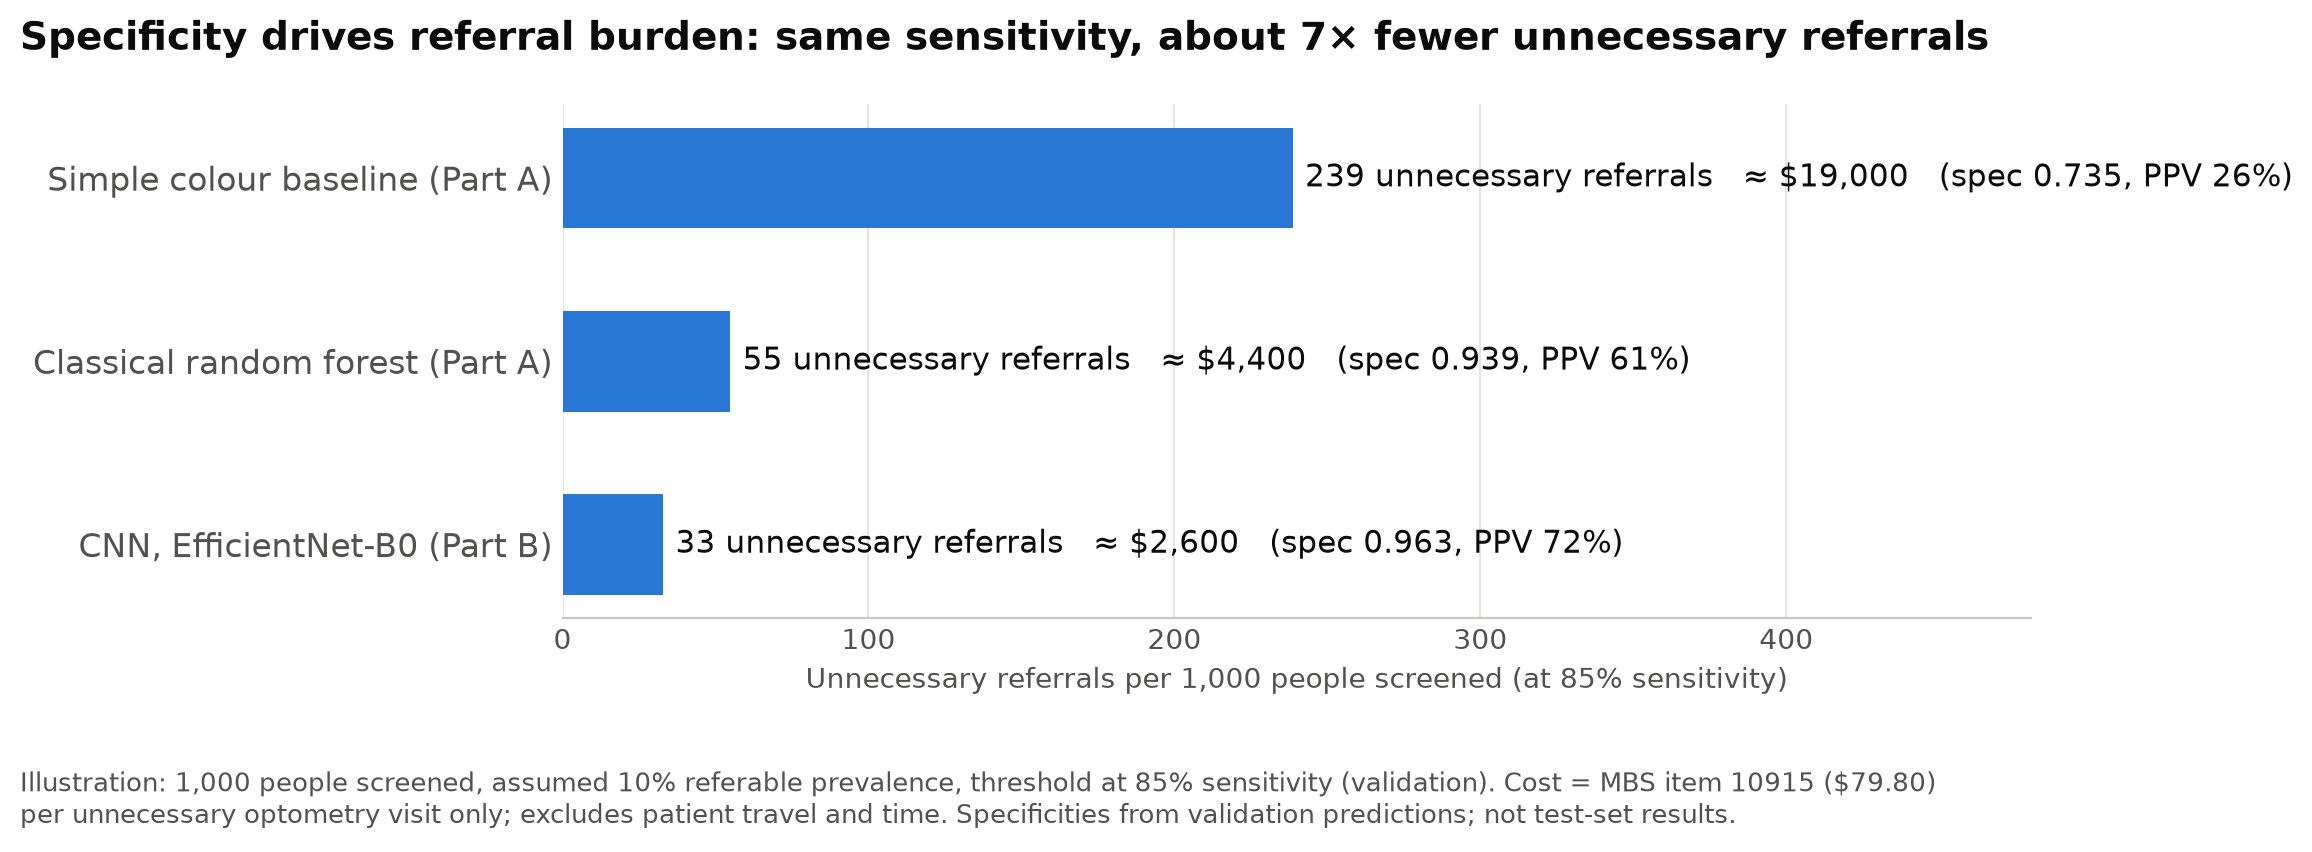
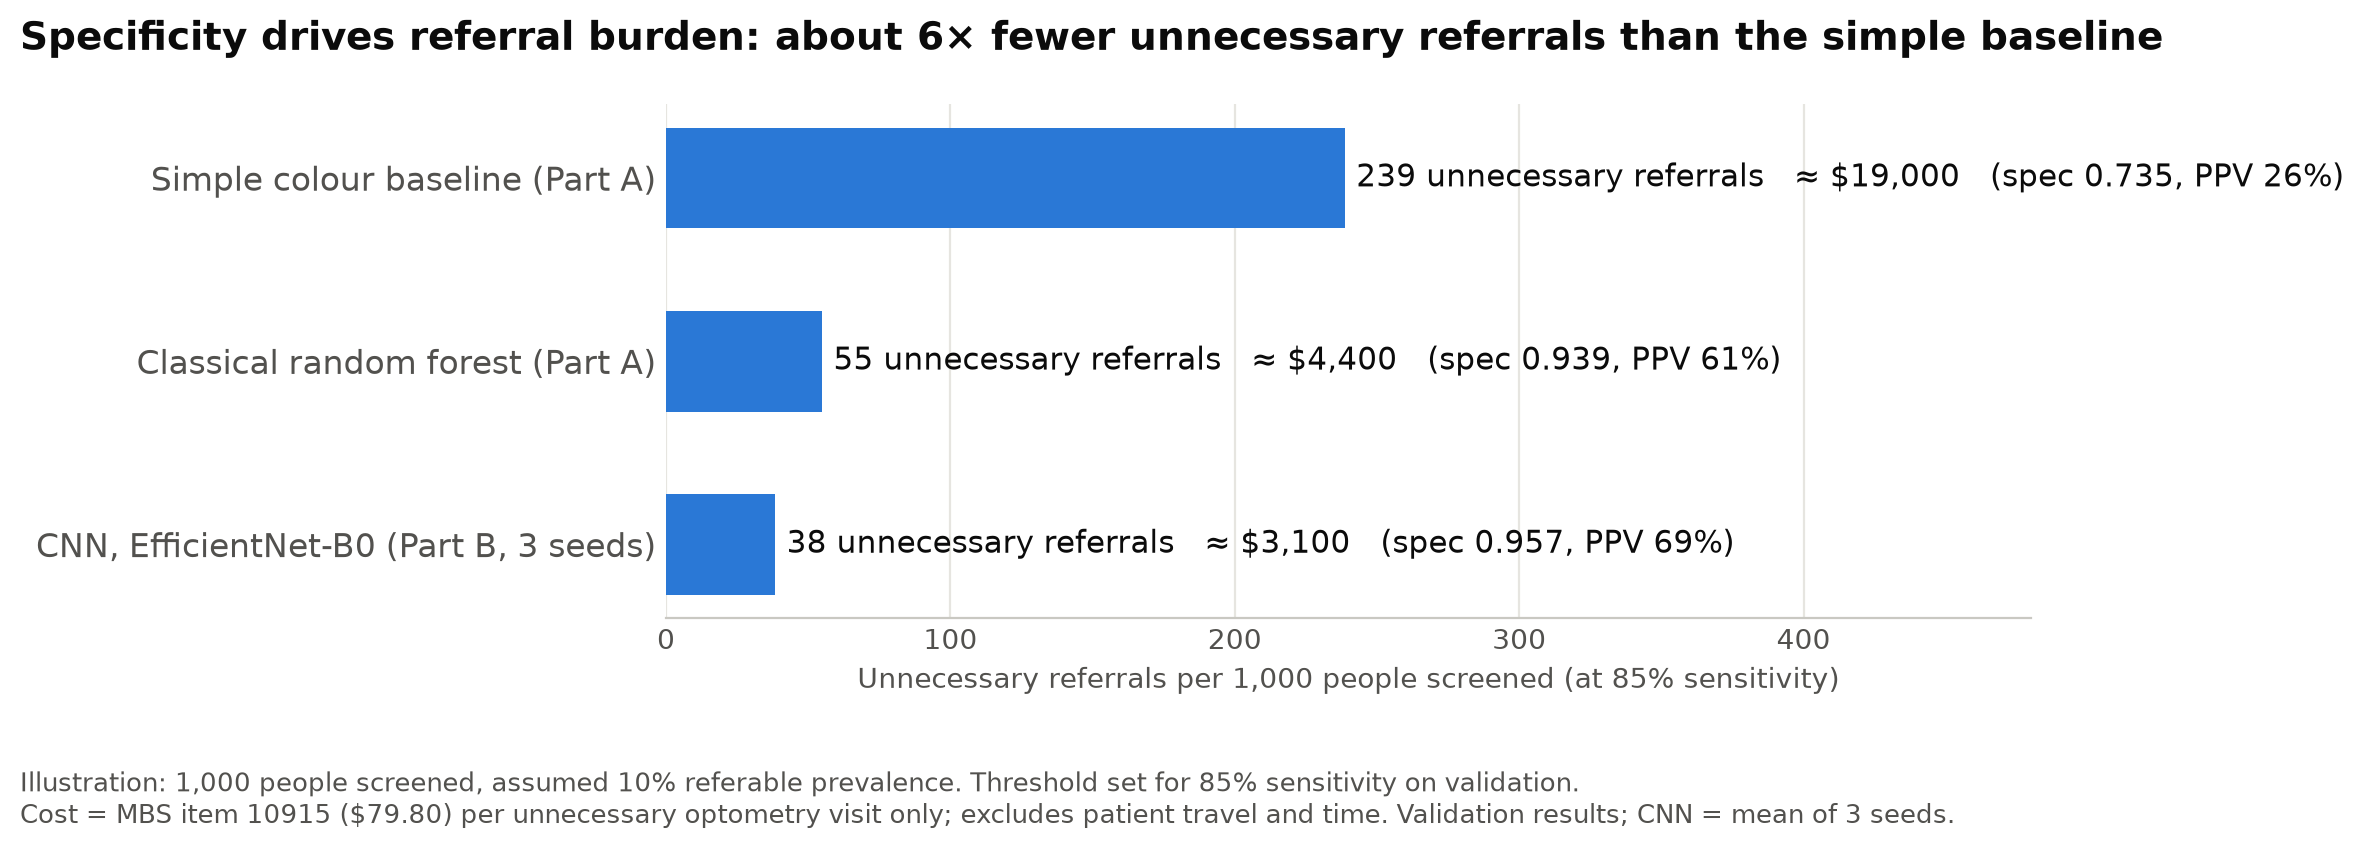
Part C: referral-burden figure on test set (D's official run), 3-seed CNN
- plot_clinical.py: --split test applies each model's validation threshold
  (85% sensitivity) unchanged to test; CNN = mean of B's 3 fine-tuned seeds.
- Test numbers match D's per1000_at_10pct_prevalence.csv: unnecessary
  referrals per 1,000 = 183 baseline, 36 classical RF, 24 CNN.
- Clinical doc updated with test numbers; CNN and classical pipeline
  described as performing similarly (D's paired bootstrap).

diff --git a/scripts/plot_clinical.py b/scripts/plot_clinical.py
@@ -6,12 +6,16 @@
 Referral burden is an illustration, not an economic evaluation:
 1,000 people screened, assumed 10% referable prevalence, threshold set at 85%
 sensitivity on validation, each unnecessary referral costed at MBS item 10915
-($79.80). Specificities come from the validation predictions.
+($79.80). With --split test, the validation threshold is applied unchanged to
+the test predictions (the group's rule; nothing is chosen on test). For models
+with several seeds, sensitivity and specificity are averaged over seeds.
 
 Usage:
-    python scripts/plot_clinical.py
+    python scripts/plot_clinical.py               # validation numbers
+    python scripts/plot_clinical.py --split test  # final test numbers (frozen models only)
 """
 
+import argparse
 import io
 import subprocess
 import sys
@@ -26,7 +30,7 @@ from matplotlib.patches import FancyArrowPatch, FancyBboxPatch
 
 ROOT = Path(__file__).resolve().parent.parent
 sys.path.insert(0, str(ROOT))
-from src.metrics import evaluate, load_preds  # noqa: E402
+from src.metrics import TARGET_SENS, load_preds, threshold_for_sensitivity  # noqa: E402
 
 OUT = ROOT / "results/part_c/figures"
 BLUE, BLUE_LIGHT, GREY, INK, INK2, SURFACE = "#2a78d6", "#e3eefb", "#8a8984", "#0b0b0b", "#52514e", "#ffffff"
@@ -82,63 +86,84 @@ def workflow():
     fig.savefig(OUT / "workflow.png", dpi=200, bbox_inches="tight", facecolor=SURFACE)
 
 
-B_MAIN = ROOT / "results/part_b/preds_B_efficientnet_b0_finetune.csv"
+B_MAIN = [ROOT / f"results/part_b/preds_B_efficientnet_b0_finetune_s{s}.csv" for s in (1, 2, 3)]
 
 
-def read_preds(path):
-    """Path to a prediction CSV, or (before Part B is merged) its contents from the Part_B_CNN branch."""
+def read_text(path):
+    """A prediction CSV's text, or (before Part B is merged) its contents from the Part_B_CNN branch."""
     if path.exists():
-        return path
+        return path.read_text()
     rel = path.relative_to(ROOT).as_posix()
-    text = subprocess.run(["git", "show", f"origin/Part_B_CNN:{rel}"], cwd=ROOT, check=True,
+    return subprocess.run(["git", "show", f"origin/Part_B_CNN:{rel}"], cwd=ROOT, check=True,
                           capture_output=True, text=True).stdout
-    return io.StringIO(text)
 
 
-def referral_burden():
+def operating_point(paths, split):
+    """Mean sensitivity and specificity on `split` at each file's validation threshold for 85% sensitivity."""
+    sens, spec = [], []
+    for path in paths:
+        text = read_text(path)
+        val = load_preds(io.StringIO(text), "val")
+        t = threshold_for_sensitivity(val["referable"].to_numpy(), val["model_score"].to_numpy(), TARGET_SENS)
+        d = load_preds(io.StringIO(text), split)
+        y, pos = d["referable"].to_numpy() == 1, d["model_score"].to_numpy() >= t
+        sens.append((pos & y).sum() / y.sum())
+        spec.append((~pos & ~y).sum() / (~y).sum())
+    return sum(sens) / len(sens), sum(spec) / len(spec)
+
+
+def referral_burden(split):
     models = [
-        ("Simple colour baseline (Part A)", ROOT / "results/part_a/preds_baseline_colour_logreg.csv"),
-        ("Classical random forest (Part A)", ROOT / "results/part_a/preds_A_rf_all.csv"),
-        ("CNN, EfficientNet-B0 (Part B)", B_MAIN),
+        ("Simple colour baseline (Part A)", [ROOT / "results/part_a/preds_baseline_colour_logreg.csv"]),
+        ("Classical random forest (Part A)", [ROOT / "results/part_a/preds_A_rf_all.csv"]),
+        ("CNN, EfficientNet-B0 (Part B, 3 seeds)", B_MAIN),
     ]
     rows = []
-    for name, path in models:
-        spec = evaluate(load_preds(read_preds(path)), n_boot=0)["spec_at_sens85"]
+    for name, paths in models:
+        sens, spec = operating_point(paths, split)
         fp = N * (1 - PREVALENCE) * (1 - spec)
-        tp = N * PREVALENCE * SENS
-        rows.append({"model": name, "spec": spec, "fp": fp, "ppv": tp / (tp + fp), "cost": fp * FP_COST})
+        tp = N * PREVALENCE * sens
+        rows.append({"model": name, "sens": sens, "spec": spec, "fp": fp, "ppv": tp / (tp + fp), "cost": fp * FP_COST})
     df = pd.DataFrame(rows)
+
+    def extra(r):
+        return f"sens {r.sens:.2f}, " if split == "test" else ""
 
     fig, ax = plt.subplots(figsize=(11, 3.6), facecolor=SURFACE)
     y = range(len(df))[::-1]
     ax.barh(list(y), df["fp"], height=0.55, color=BLUE)
     for yi, r in zip(y, df.itertuples()):
-        ax.text(r.fp + 4, yi, f"{r.fp:.0f} unnecessary referrals   ≈ ${round(r.cost, -2):,.0f}   (spec {r.spec:.3f}, PPV {r.ppv:.0%})",
+        ax.text(r.fp + 4, yi, f"{r.fp:.0f} unnecessary referrals   ≈ ${round(r.cost, -2):,.0f}   ({extra(r)}spec {r.spec:.3f}, PPV {r.ppv:.0%})",
                 va="center", fontsize=11, color=INK)
     ax.set_yticks(list(y), df["model"], fontsize=12, color=INK)
     ax.set_xlim(0, 480)
-    ax.set_xlabel("Unnecessary referrals per 1,000 people screened (at 85% sensitivity)", color=INK2)
+    ax.set_xlabel("Unnecessary referrals per 1,000 people screened " + ("(threshold from validation)" if split == "test" else "(at 85% sensitivity)"), color=INK2)
     for s in ("top", "right", "left"):
         ax.spines[s].set_visible(False)
     ax.spines["bottom"].set_color(BOX_EDGE)
     ax.tick_params(colors=INK2, length=0)
     ax.grid(axis="x", color="#e6e5e0")
     ax.set_axisbelow(True)
-    fig.suptitle("Specificity drives referral burden: same sensitivity, about 7× fewer unnecessary referrals",
+    ratio = df["fp"].iloc[0] / df["fp"].iloc[-1]
+    fig.suptitle(f"Specificity drives referral burden: about {ratio:.0f}× fewer unnecessary referrals than the simple baseline",
                  x=0.015, ha="left", fontsize=14, fontweight="bold", color=INK)
     fig.text(0.015, -0.06,
-             "Illustration: 1,000 people screened, assumed 10% referable prevalence, threshold at 85% sensitivity "
-             "(validation). Cost = MBS item 10915 ($79.80)\nper unnecessary optometry visit only; excludes patient "
-             "travel and time. Specificities from validation predictions; not test-set results.",
+             "Illustration: 1,000 people screened, assumed 10% referable prevalence. Threshold set for 85% sensitivity on "
+             f"validation{' and applied unchanged to test' if split == 'test' else ''}.\nCost = MBS item 10915 ($79.80) "
+             "per unnecessary optometry visit only; excludes patient travel and time. "
+             f"{'TEST-set results' if split == 'test' else 'Validation results'}; CNN = mean of 3 seeds.",
              fontsize=9.5, color=INK2, va="top")
     fig.tight_layout()
-    fig.savefig(OUT / "referral_burden.png", dpi=200, bbox_inches="tight", facecolor=SURFACE)
+    fig.savefig(OUT / f"referral_burden{'_test' if split == 'test' else ''}.png", dpi=200, bbox_inches="tight", facecolor=SURFACE)
     print(df.round(3).to_string(index=False))
 
 
 if __name__ == "__main__":
     OUT.mkdir(parents=True, exist_ok=True)
     plt.rcParams.update({"font.family": "DejaVu Sans"})
+    p = argparse.ArgumentParser()
+    p.add_argument("--split", choices=["val", "test"], default="val")
+    a = p.parse_args()
     workflow()
-    referral_burden()
+    referral_burden(a.split)
     print(f"Wrote figures to {OUT}")

diff --git a/docs/clinical_medical_value.md b/docs/clinical_medical_value.md
@@ -11,7 +11,7 @@ Facts checked against the sources listed at the end (November 2026). Claims foun
 - **The problem is missed screening, not missing technology.** About 1.3 million Australian adults have diabetes [1]. In the National Eye Health Survey, about 1 in 4 non-Indigenous and about 1 in 2 Indigenous people with diabetes were not examined within the recommended interval. Most did not know they needed an exam [3].
 - **Intended value:** a referable-DR check at the GP or Aboriginal Medical Service visit the patient is already attending. A negative result means routine rescreening. A positive or ungradable result means referral to an optometrist or ophthalmologist.
 - **Value depends on the pathway after the AI.** In an Australian real-world AI screening study, only about a third of referred patients were confirmed to attend [7]. Without a referral pathway, a true positive does not help the patient.
-- **Specificity drives cost.** Each false positive is an unnecessary specialist visit. In our validation results, specificity at 85% sensitivity ranges from 0.74 (simple colour baseline) to 0.94 (Part A's random forest) and 0.96 (B's fine-tuned CNN). For 1,000 people screened, that is the difference between about 240 and about 33–55 unnecessary referrals (illustration in section 5).
+- **Specificity drives cost.** Each false positive is an unnecessary specialist visit. On the test set (threshold set for 85% sensitivity on validation), specificity is 0.80 for the simple colour baseline, 0.96 for Part A's random forest and 0.97 for B's fine-tuned CNN. For 1,000 people screened, that is the difference between about 183 and about 24–36 unnecessary referrals (illustration in section 5). The CNN and the classical pipeline perform similarly (D's paired bootstrap: AUROC difference +0.005, 95% CI −0.003 to +0.014).
 - **Published evidence for validated systems is positive.** An Australian model found AI screening in primary care cost-saving [9]. Patient acceptability was 94% in the Australian real-world study [7]. **Our student model is not validated and could not be used clinically** (see section 6).
 
 ---
@@ -106,16 +106,16 @@ Points to make:
 Assumptions:
 - 1,000 people screened.
 - 10% have referable DR. This is an assumed community prevalence; APTOS validation is 40%, which is far higher.
-- Threshold set at 85% sensitivity.
+- Threshold set for 85% sensitivity on validation and applied unchanged to test (the group's rule; D's official test run).
 - Each unnecessary referral costs one optometrist comprehensive diabetic exam, MBS item 10915 at $79.80 [6]. This ignores patient travel, time and any ophthalmology visit, so it underestimates the true cost.
 
-| Model (validation, spec at 85% sens) | Referable found (of 100) | Missed | False positives (of 900) | PPV | FP cost (MBS only) |
-|---|---|---|---|---|---|
-| Simple colour baseline (spec 0.735) | 85 | 15 | ≈ 239 | 26% | ≈ $19,000 |
-| Part A random forest (spec 0.939) | 85 | 15 | ≈ 55 | 61% | ≈ $4,400 |
-| Part B CNN, fine-tuned EfficientNet-B0 (spec 0.963) | 85 | 15 | ≈ 33 | 72% | ≈ $2,600 |
+| Model (test set) | Sens | Spec | Referable found (of 100) | Missed | Unnecessary referrals (of 900) | PPV | FP cost (MBS only) |
+|---|---|---|---|---|---|---|---|
+| Simple colour baseline | 0.90 | 0.797 | ≈ 90 | ≈ 10 | ≈ 183 | 33% | ≈ $14,600 |
+| Part A random forest | 0.84 | 0.960 | ≈ 84 | ≈ 16 | ≈ 36 | 70% | ≈ $2,900 |
+| Part B CNN, fine-tuned EfficientNet-B0 (mean of 3 seeds) | 0.83 | 0.973 | ≈ 83 | ≈ 17 | ≈ 24 | 78% | ≈ $1,900 |
 
-At the same sensitivity, the classical model cuts unnecessary referrals by about four-fifths and the CNN by about six-sevenths (239 → 33) compared with the simple baseline. The PPV numbers also show that in a real community population, most positives from a weaker model would be false alarms. Specificities come from the validation predictions (`python -m src.metrics`; CNN = B's final model, `results/part_b/preds_B_efficientnet_b0_finetune.csv`, seed 9027; figure made with `scripts/plot_clinical.py`). Test-set results are not used here.
+The classical pipeline and the CNN cut unnecessary referrals by about 80–87% compared with the simple baseline (183 → 36 and 24), while the baseline catches a few more referable cases (90 vs 83–84 per 100). The PPV numbers also show that in a real community population, most positives from a weaker model would be false alarms. Test sensitivity (0.83 for the CNN) came out slightly below the 85% target set on validation (CI 0.77–0.87), which is one reason external validation would be needed. Numbers match D's `per1000_at_10pct_prevalence.csv`; figure made with `python scripts/plot_clinical.py --split test` (`results/part_c/figures/referral_burden_test.png`). Validation version: `python scripts/plot_clinical.py`.
 
 **Funding:** the photography service is already funded through MBS items 12325/12326: $59.75 per service, once every 12 months (Aboriginal and Torres Strait Islander patients) or 24 months (others) [5]. There is no separate MBS item for the AI software itself. How the software would be paid for (bundled into the service, a licence paid by the practice, or a new item) is an open question for D's reimbursement section.
 
